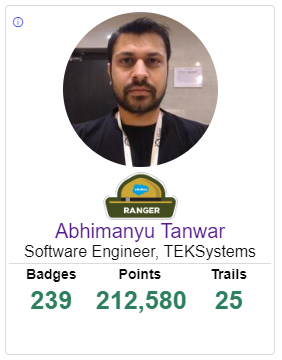
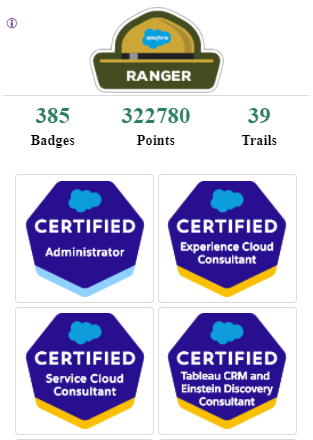
added new version:
;
ad
>

diff --git a/Salesforce_LWC Trailhead Score Card/trailheadScoreCard.js b/Salesforce_LWC Trailhead Score Card/trailheadScoreCard.js
@@ -6,6 +6,6 @@ import {
 export default class TrailheadScoreCard extends LightningElement {
     @api t_username = 'TEST';
     get trailScoreCardLink() {
-        return 'https://api-superqbit.herokuapp.com/salesforce/TrailheadCard/' + this.t_username;
+        return 'https://superqbit.herokuapp.com/trailhead?uid=' + this.t_username;
     }
 }

diff --git a/wp-scorecard-widget-for-salesforce-trailhead/scorecard-widget-for-salesforce-trailhead.php b/wp-scorecard-widget-for-salesforce-trailhead/scorecard-widget-for-salesforce-trailhead.php
@@ -1,0 +1,102 @@
+<?php
+/**
+* Plugin Name: Scorecard Widget for Salesforce Trailhead
+* Description: See your Salesforce Trailhead Badges count, points and trails score live in wordpress. A must plugin to have for salesforce bloggers. This plugin will enable a widget that you can setup just by setting the trailhead Id from the Trailhead Profile.
+* Version: 2.0
+* Author: Abhimanyud3dx
+* Author URI: https://superqbit.com/abhimanyud3dx
+**/
+
+// The widget class
+class SF_Trailhead_Scorecard_Widget extends WP_Widget {
+	// Main constructor
+	public function __construct() {
+		parent::__construct(
+			'sf_trailhead_scorecard_widget',
+			__( 'Salesforce Trailhead Certifications Scorecard', 'text_domain' ),
+			array(
+				'customize_selective_refresh' => true,
+			)
+		);
+	}
+	// The widget form (for the backend )
+	public function form( $instance ) {
+		// Set widget defaults
+		$defaults = array(
+			'trailheadId'    => 'test',
+			'uitype'    => 'a',
+			'size'    => '100',
+			'frameHeight' => '200'
+		);
+		
+		// Parse current settings with defaults
+		extract( wp_parse_args( ( array ) $instance, $defaults ) ); 
+		
+		// Trailhead Id ?>
+		<p>
+			<label for="<?php echo esc_attr( $this->get_field_id( 'trailheadId' ) ); ?>"><?php _e( 'Trailhead Id', 'text_domain' ); ?></label>
+			<input class="widefat" id="<?php echo esc_attr( $this->get_field_id( 'trailheadId' ) ); ?>" name="<?php echo esc_attr( $this->get_field_name( 'trailheadId' ) ); ?>" type="text" value="<?php echo esc_attr( $trailheadId ); ?>" />
+		</p>
+		<p>
+			<label for="<?php echo esc_attr( $this->get_field_id( 'uitype' ) ); ?>"><?php _e( 'Type', 'text_domain' ); ?></label>			
+			<select id="<?php echo esc_attr( $this->get_field_id( 'uitype' ) ); ?>" name="<?php echo esc_attr( $this->get_field_name( 'uitype' ) ); ?>" selected="<?php echo esc_attr( $uitype ); ?>" value="<?php echo esc_attr( $uitype ); ?>">
+				<option <?php if("a"== esc_attr( $uitype )) { echo 'selected';} ?> value="a">TrailHead Info</option>
+				<option <?php if("b"== esc_attr( $uitype )) { echo 'selected';} ?> value="b">Certifications</option>
+				<option <?php if("b1"== esc_attr( $uitype )) { echo 'selected';} ?> value="b1">Certifications without Title</option>
+				<option <?php if("b2"== esc_attr( $uitype )) { echo 'selected';} ?> value="b2">Certifications  without Date</option>
+				<option <?php if("b12"== esc_attr( $uitype )) { echo 'selected';} ?> value="b12">Certifications without Title &amp; Date</option>
+				<option <?php if("c"== esc_attr( $uitype )) { echo 'selected';} ?> value="c">TrailHead &amp; Certifications </option>
+				<option <?php if("c1"== esc_attr( $uitype )) { echo 'selected';} ?> value="c1">TrailHead &amp; Certifications without Title </option>
+				<option <?php if("c2"== esc_attr( $uitype )) { echo 'selected';} ?> value="c2">TrailHead &amp; Certifications without Date </option>
+				<option <?php if("c12"== esc_attr( $uitype )) { echo 'selected';} ?> value="c12">TrailHead &amp; Certifications without Title &amp; Date </option>
+			</select>			
+		</p>
+		<p>
+			<label for="<?php echo esc_attr( $this->get_field_id( 'size' ) ); ?>"><?php _e( 'Image Size', 'text_domain' ); ?></label>
+			<input class="widefat" id="<?php echo esc_attr( $this->get_field_id( 'size' ) ); ?>" name="<?php echo esc_attr( $this->get_field_name( 'size' ) ); ?>" type="text" value="<?php echo esc_attr( $size ); ?>" />
+		</p>
+		<p>
+			<label for="<?php echo esc_attr( $this->get_field_id( 'frameHeight' ) ); ?>"><?php _e( 'Height of Widget', 'text_domain' ); ?></label>
+			<input class="widefat" id="<?php echo esc_attr( $this->get_field_id( 'frameHeight' ) ); ?>" name="<?php echo esc_attr( $this->get_field_name( 'frameHeight' ) ); ?>" type="text" value="<?php echo esc_attr( $frameHeight ); ?>" />
+		</p>
+
+
+
+
+		<?php echo 'Get your Trailhead Id from your public trailhead profile page URL which would look something like this
+		<a href="https://raw.githubusercontent.com/abhimanyud3dx/Trailhead-Score-Card/master/Screenshots/trailheadProfile.png" target="blank">https://trailhead.salesforce.com/me/<strong>{TrailheadId}</strong></a>. Makse sure your profile is public.<br/>'; ?>
+
+	<?php }
+	// Update widget settings
+	public function update( $new_instance, $old_instance ) {
+		$instance = $old_instance;
+		$instance['trailheadId'] = isset( $new_instance['trailheadId'] ) ? wp_strip_all_tags( $new_instance['trailheadId'] ) : '';
+		$instance['uitype'] = isset( $new_instance['uitype'] ) ? wp_strip_all_tags( $new_instance['uitype'] ) : '';
+		$instance['size'] = isset( $new_instance['size'] ) ? wp_strip_all_tags( $new_instance['size'] ) : '';
+		$instance['frameHeight'] = isset( $new_instance['frameHeight'] ) ? wp_strip_all_tags( $new_instance['frameHeight'] ) : '';
+		return $instance;
+	}
+	// Display the widget
+	public function widget( $args, $instance ) {
+		extract( $args );
+		// Check the widget options
+		$trailheadId     = isset( $instance['trailheadId'] ) ? $instance['trailheadId'] : '';
+		$uitype     = isset( $instance['uitype'] ) ? $instance['uitype'] : 'a';
+		$size     = isset( $instance['size'] ) ? $instance['size'] : '100';
+		$frameHeight     = isset( $instance['frameHeight'] ) ? $instance['frameHeight'] : '200';
+		
+		// WordPress core before_widget hook (always include )
+		echo $before_widget;
+		
+		echo '<iframe src="https://superqbit.herokuapp.com/trailhead?uid='.$trailheadId.'&type='.$uitype.'&s='.$size.'" style="border:none;overflow:hidden;" width="100%" height="'.$frameHeight.'px"  scrolling="no"></iframe>';
+		
+		// WordPress core after_widget hook (always include )
+		echo $after_widget;
+	}
+}
+// Register the widget
+function my_register_salesforce_trailhead_widget() {
+	register_widget( 'SF_Trailhead_Scorecard_Widget' );
+}
+add_action( 'widgets_init', 'my_register_salesforce_trailhead_widget' );
+?>

diff --git a/README.md b/README.md
@@ -22,7 +22,7 @@ https://superqbit.herokuapp.com/TrailheadCard/{TrailheadId}
 
 To get embed the scorecard in your own website
 ```
-<iframe src="https://api-superqbit.herokuapp.com/salesforce/TrailheadCard/{TrailheadId}" style="border:none;overflow:hidden;" width="100%" height="350px" scrolling="no"></iframe>
+<iframe src="https://superqbit.herokuapp.com/trailhead?uid={TrailheadId}" style="border:none;overflow:hidden;" width="100%" height="350px" scrolling="no"></iframe>
 ```
 
 
